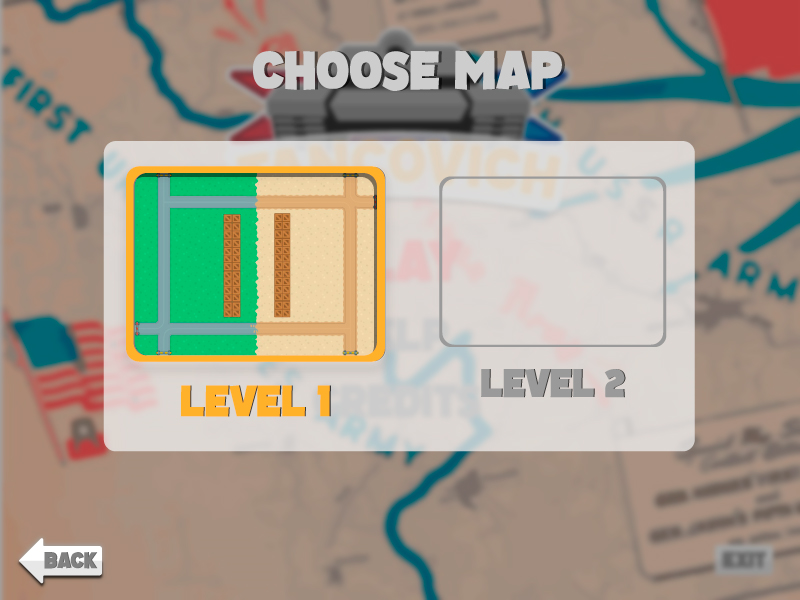
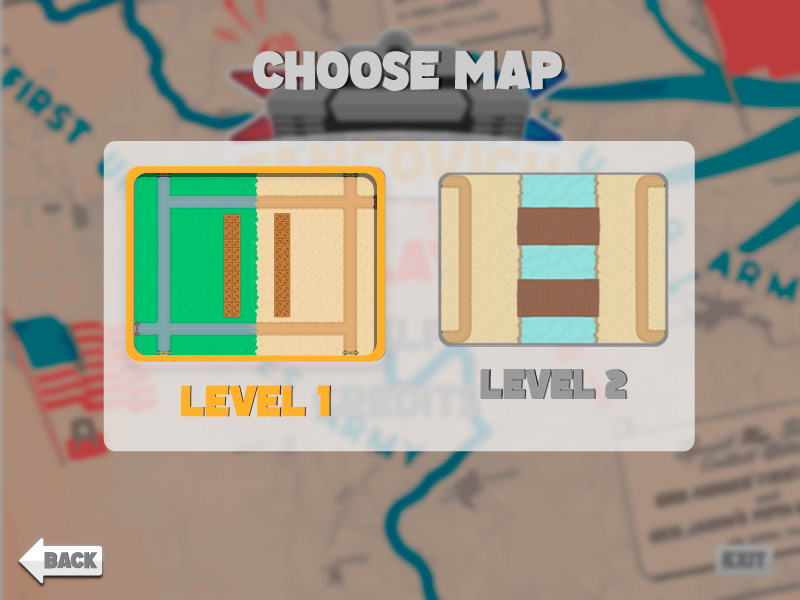
Ultimos cambios

Changed region(s): [[0.5312, 0.27, 0.8438, 0.6], [0.5938, 0.63, 0.7812, 0.69]]

diff --git a/tancovich/src/Board.java b/tancovich/src/Board.java
@@ -37,33 +37,36 @@ public class Board extends JPanel  implements ActionListener{
     private boolean enterControl = false;    
     private boolean escapeControl = false;
     
+    private final int[][] boxesPositionBorder = {
+    		{0, -1, 800, 1, 1}, //ARRIBA
+    		{800, 0, 1, 600, 1}, //DERECHA
+    		{0, 600, 800, 1, 1}, //ABAJO
+    		{-1, 0, 1, 600, 1} //IZQUIERDA
+    };
+    
     private final int[][] boxesPositionLvlOne = {
-    		{293, 136, 55, 338},
-            {460, 133, 52, 340}
+    		{293, 136, 55, 338, 0},
+            {460, 133, 52, 340, 0}    		
     };
     
     private final int[][] boxesPositionLvlTwo = {
-    		{100, 40, 20, 50},
-            {140, 40, 20, 50}
-    };
-    
-    private final int[][] boxesPositionLvlThree = {
-    		{100, 40, 20, 50},
-            {140, 40, 20, 50}
+    		{292, 0, 250, 118, 1},
+            {292, 255, 250, 112, 1},
+    		{292, 503, 250, 92, 1}
     };
     
     private final int[][] tankPositions = {
     		
             {1, 40, 60},
             {2, 720, 480}
-    };
-    
+    };    
     
     public static enum STATE {
     	STARTMENU,
     	MAINMENU,
     	HELP,
     	CREDITS,
+    	CHOOSEMAP,
     	GAME,
     	PAUSE,
     	GAMEOVER
@@ -78,8 +81,9 @@ public class Board extends JPanel  implements ActionListener{
     	{720,780,535,580}, //EXIT
     	{265,500,425,475}, //PRESS ENTER
     	{270,530,240,272}, //RESUME
-    	{265,530,320,350} //BACK TO MENU
-    	
+    	{265,530,320,350}, //BACK TO MENU
+    	{140,365,180,350}, //MAP 1
+    	{440,665,180,350} //MAP 2
     };
     
     public static STATE State = STATE.STARTMENU;
@@ -130,6 +134,7 @@ public class Board extends JPanel  implements ActionListener{
 
         initTanks();
         //initEnemies();
+        hideBars();
         initBars();
         initBoxes();
     }
@@ -188,21 +193,25 @@ public class Board extends JPanel  implements ActionListener{
     	
     	boxes = new ArrayList<>();
     	
+    	for (int[] p : boxesPositionBorder) {
+			Box newBox = new Box(p[0], p[1], p[2], p[3]);
+			if(p[4] == 1) newBox.setMissileInside(true);
+			boxes.add(newBox);			
+        }
+    	
     	switch (lvl) {
 		case 1:
 			for (int[] p : boxesPositionLvlOne) {
-				boxes.add(new Box(p[0], p[1], p[2], p[3]));
+				Box newBox = new Box(p[0], p[1], p[2], p[3]);
+				if(p[4] == 1) newBox.setMissileInside(true);
+				boxes.add(newBox);				
 	        }
 			break;
 		case 2:
 			for (int[] p : boxesPositionLvlTwo) {
-				boxes.add(new Box(p[0], p[1], p[2], p[3]));
-	        }
-			break;
-			
-		case 3:
-			for (int[] p : boxesPositionLvlThree) {
-				boxes.add(new Box(p[0], p[1], p[2], p[3]));
+				Box newBox = new Box(p[0], p[1], p[2], p[3]);
+				if(p[4] == 1) newBox.setMissileInside(true);
+				boxes.add(newBox);
 	        }
 			break;
 
@@ -261,6 +270,15 @@ public class Board extends JPanel  implements ActionListener{
 				State = STATE.MAINMENU;
 			}
 		}
+		if (State == STATE.CHOOSEMAP) {
+			menu.render(g,render);
+			if(Keyboard.keydown[27] && !escapeControl)
+			{
+				escapeControl = true;
+				render = 1;
+				State = STATE.MAINMENU;
+			}
+		}
 		if(State == STATE.GAME) {
 			drawBackground(g);
 			drawObjects(g);
@@ -307,8 +325,12 @@ public class Board extends JPanel  implements ActionListener{
     
     private void drawBackground(Graphics g)
     {
+    	String mapImage = "";
+    	if(lvl == 1) mapImage = "Resources/track.png";
+    	else if(lvl == 2) mapImage = "Resources/track2.png";
+    	
     	try {
-        	background = ImageIO.read(getClass().getResourceAsStream("Resources/track.png"));
+        	background = ImageIO.read(getClass().getResourceAsStream(mapImage));
         } catch (IOException ex) {
             Logger.getLogger(Board.class.getName()).log(Level.SEVERE, null, ex);
         }
@@ -370,8 +392,10 @@ public class Board extends JPanel  implements ActionListener{
             }
         }*/
         
-        for (Box box : boxes) {       	
-        	g.drawRect(box.getX(), box.getY(), box.getWidth(), box.getHeight());
+    	Color color = new Color(0,0,0,0);
+        for (Box box : boxes) {        	
+        	g.setColor(color);
+        	g.drawRect(box.getX(), box.getY(), box.getWidth(), box.getHeight());        	
         }
 
         g.setColor(Color.WHITE);
@@ -593,7 +617,7 @@ public class Board extends JPanel  implements ActionListener{
            	
             	Shape missileBound = missile.getShape();
             	
-            	if(Sprite.testIntersection(boxBound, missileBound)) {
+            	if(!box.isMissileInside() && Sprite.testIntersection(boxBound, missileBound)) {
             		
             		//Superior e inferior
             		if((missile.getY() < box.getY() && isBetween(missile.getX(),box.getX(),box.getX()+box.getWidth()-missile.getWidth())) || 
@@ -671,6 +695,22 @@ public class Board extends JPanel  implements ActionListener{
 				render = 14;
 			}
     	}
+    	else if(State == STATE.CHOOSEMAP) 
+    	{
+    		if(isBetween(mx,Buttons[8][0],Buttons[8][1]) && isBetween(my,Buttons[8][2],Buttons[8][3])) {
+				render = 18;
+			}
+    		else if(isBetween(mx,Buttons[9][0],Buttons[9][1]) && isBetween(my,Buttons[9][2],Buttons[9][3])) {
+				render = 19;
+			}
+    		else if(isBetween(mx,Buttons[3][0],Buttons[3][1]) && isBetween(my,Buttons[3][2],Buttons[3][3])) {
+				render = 20;
+			}
+			else
+			{
+				render = 17;
+			}
+    	}
     	else if(State == STATE.PAUSE)
     	{
     		if(isBetween(mx,Buttons[6][0],Buttons[6][1]) && isBetween(my,Buttons[6][2],Buttons[6][3])) {
@@ -708,7 +748,7 @@ public class Board extends JPanel  implements ActionListener{
 		//Coordenadas X Y del mouse
 		int mx  = e.getX();
 		int my  = e.getY();
-		System.out.println("X: " + mx + " Y: " + my);
+		//System.out.println("X: " + mx + " Y: " + my);
 
 		if (State == STATE.STARTMENU) {
 			
@@ -721,8 +761,7 @@ public class Board extends JPanel  implements ActionListener{
 		if (State == STATE.MAINMENU) {
 			
 			if(isBetween(mx,Buttons[0][0],Buttons[0][1]) && isBetween(my,Buttons[0][2],Buttons[0][3])) {
-				initGame();
-				State = STATE.GAME;
+				State = STATE.CHOOSEMAP;
 			}
 			
 			if(isBetween(mx,Buttons[1][0],Buttons[1][1]) && isBetween(my,Buttons[1][2],Buttons[1][3])) {
@@ -761,9 +800,39 @@ public class Board extends JPanel  implements ActionListener{
 			}
 		}
 		
-		if(State == STATE.PAUSE || State == STATE.GAMEOVER) {
+		if(State == STATE.CHOOSEMAP) {
+			
+			if(isBetween(mx,Buttons[8][0],Buttons[8][1]) && isBetween(my,Buttons[8][2],Buttons[8][3])) {
+				setLvl(1);
+				initGame();
+				State = STATE.GAME;
+			}
+			if(isBetween(mx,Buttons[9][0],Buttons[9][1]) && isBetween(my,Buttons[9][2],Buttons[9][3])) {
+				setLvl(2);
+				initGame();
+				State = STATE.GAME;
+			}
+			if(isBetween(mx,Buttons[3][0],Buttons[3][1]) && isBetween(my,Buttons[3][2],Buttons[3][3])) {
+				render = 1;
+				State = STATE.MAINMENU;
+			}
+		}
+		
+		if(State == STATE.PAUSE) {
 			
 			if(isBetween(mx,Buttons[6][0],Buttons[6][1]) && isBetween(my,Buttons[6][2],Buttons[6][3])) {
+				State = STATE.GAME;
+			}
+			
+			if(isBetween(mx,Buttons[7][0],Buttons[7][1]) && isBetween(my,Buttons[7][2],Buttons[7][3])) {
+				State = STATE.MAINMENU;
+			}
+		}
+		
+		if(State == STATE.GAMEOVER) {
+			
+			if(isBetween(mx,Buttons[6][0],Buttons[6][1]) && isBetween(my,Buttons[6][2],Buttons[6][3])) {
+				initGame();
 				State = STATE.GAME;
 			}
 			

diff --git a/tancovich/src/Tank.java b/tancovich/src/Tank.java
@@ -162,10 +162,12 @@ public class Tank extends Sprite implements Entity{
         if(id == 1)
         {
         	loadImage("Resources/tankRed.png");
+        	r = -45;
         }
         else if(id == 2)
         {
         	loadImage("Resources/tankBlue.png");
+        	r = 135;
         }
         
         missiles = new ArrayList<>();
@@ -212,13 +214,13 @@ public class Tank extends Sprite implements Entity{
         	if (getId()== 1) {
             	setX(40);
             	setY(60);
-            	setR(0);	
+            	setR(-45);	
         	}
         	else if (getId() == 2) {
             	
         		setX(720);
             	setY(480);
-            	setR(0);	
+            	setR(135);	
         	}
         }
     }

diff --git a/tancovich/src/Menu.java b/tancovich/src/Menu.java
@@ -28,7 +28,12 @@ public class Menu {
     	"Resources/Menu/GameOver/BACKTOMENU.png",
     	"Resources/Menu/Credits/CREDITS.jpg", //14
     	"Resources/Menu/Credits/CREDITSBACK.jpg",
-    	"Resources/Menu/HowToPlay/HOWTOPLAYBACK.jpg"
+    	"Resources/Menu/HowToPlay/HOWTOPLAYBACK.jpg",
+    	"Resources/Menu/ChooseMap/CHOOSEMAP(PASIVO).jpg", //17    	
+    	"Resources/Menu/ChooseMap/CHOOSEMAP(LVL1).jpg",
+    	"Resources/Menu/ChooseMap/CHOOSEMAP(LVL2).jpg",
+    	"Resources/Menu/ChooseMap/CHOOSEMAP(BACK).jpg"
+    	
     };
 
     public JLabel getLabel() { 

diff --git a/tancovich/src/Box.java b/tancovich/src/Box.java
@@ -1,6 +1,7 @@
 public class Box extends Sprite {
 	
 	private boolean destroyable = false;
+	private boolean missileInside = false;
 
 	public Box(int x, int y, int width, int height) {
 		super(x, y, width, height);
@@ -12,5 +13,13 @@ public class Box extends Sprite {
 
 	public void setDestroyable(boolean destroyable) {
 		this.destroyable = destroyable;
+	}
+
+	public boolean isMissileInside() {
+		return missileInside;
+	}
+
+	public void setMissileInside(boolean missileInside) {
+		this.missileInside = missileInside;
 	}
 }
